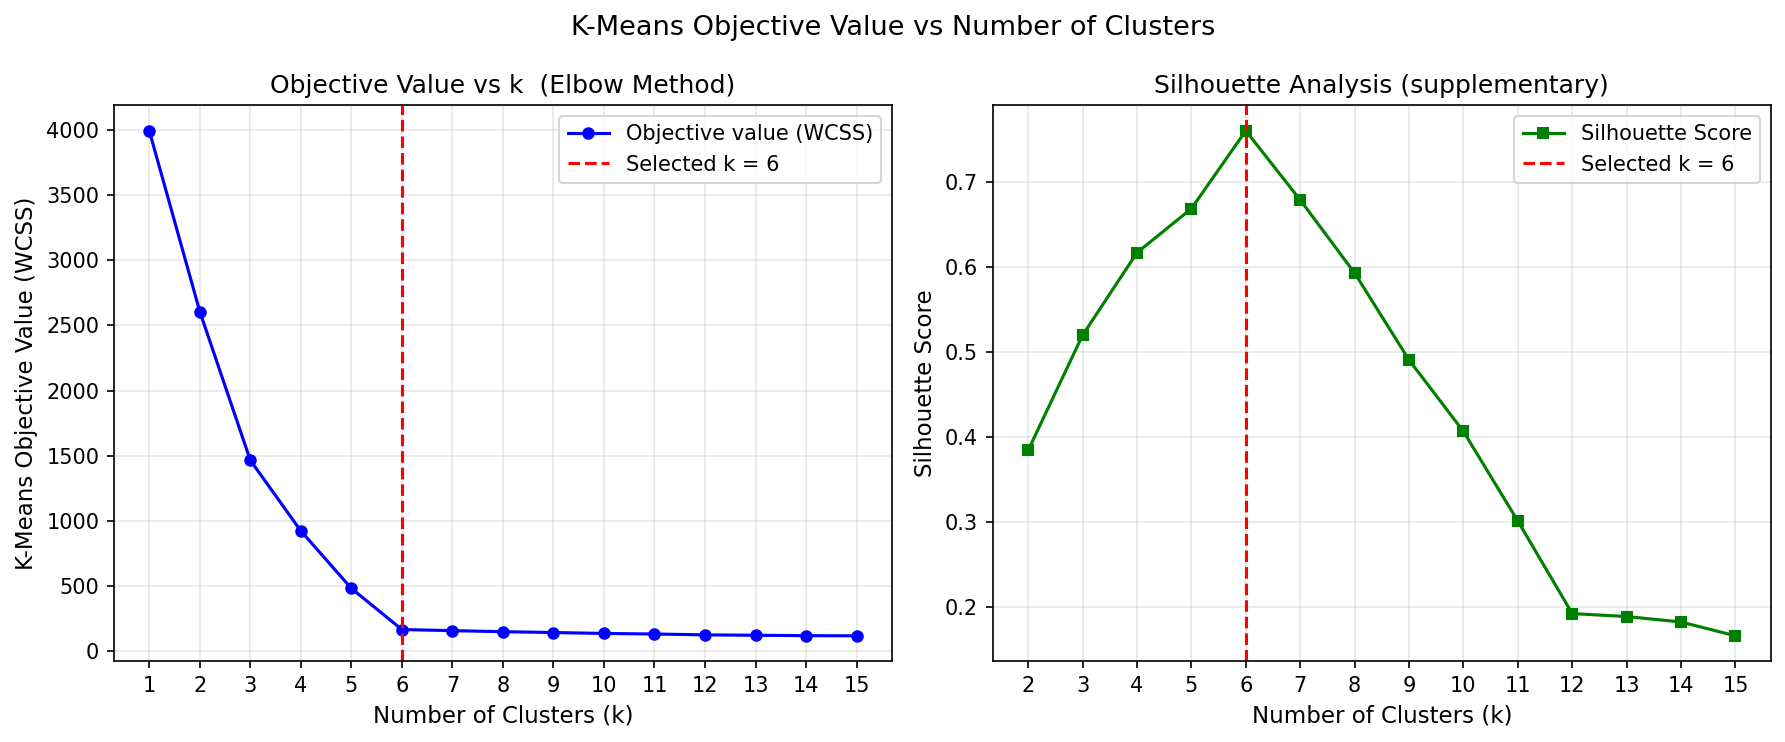
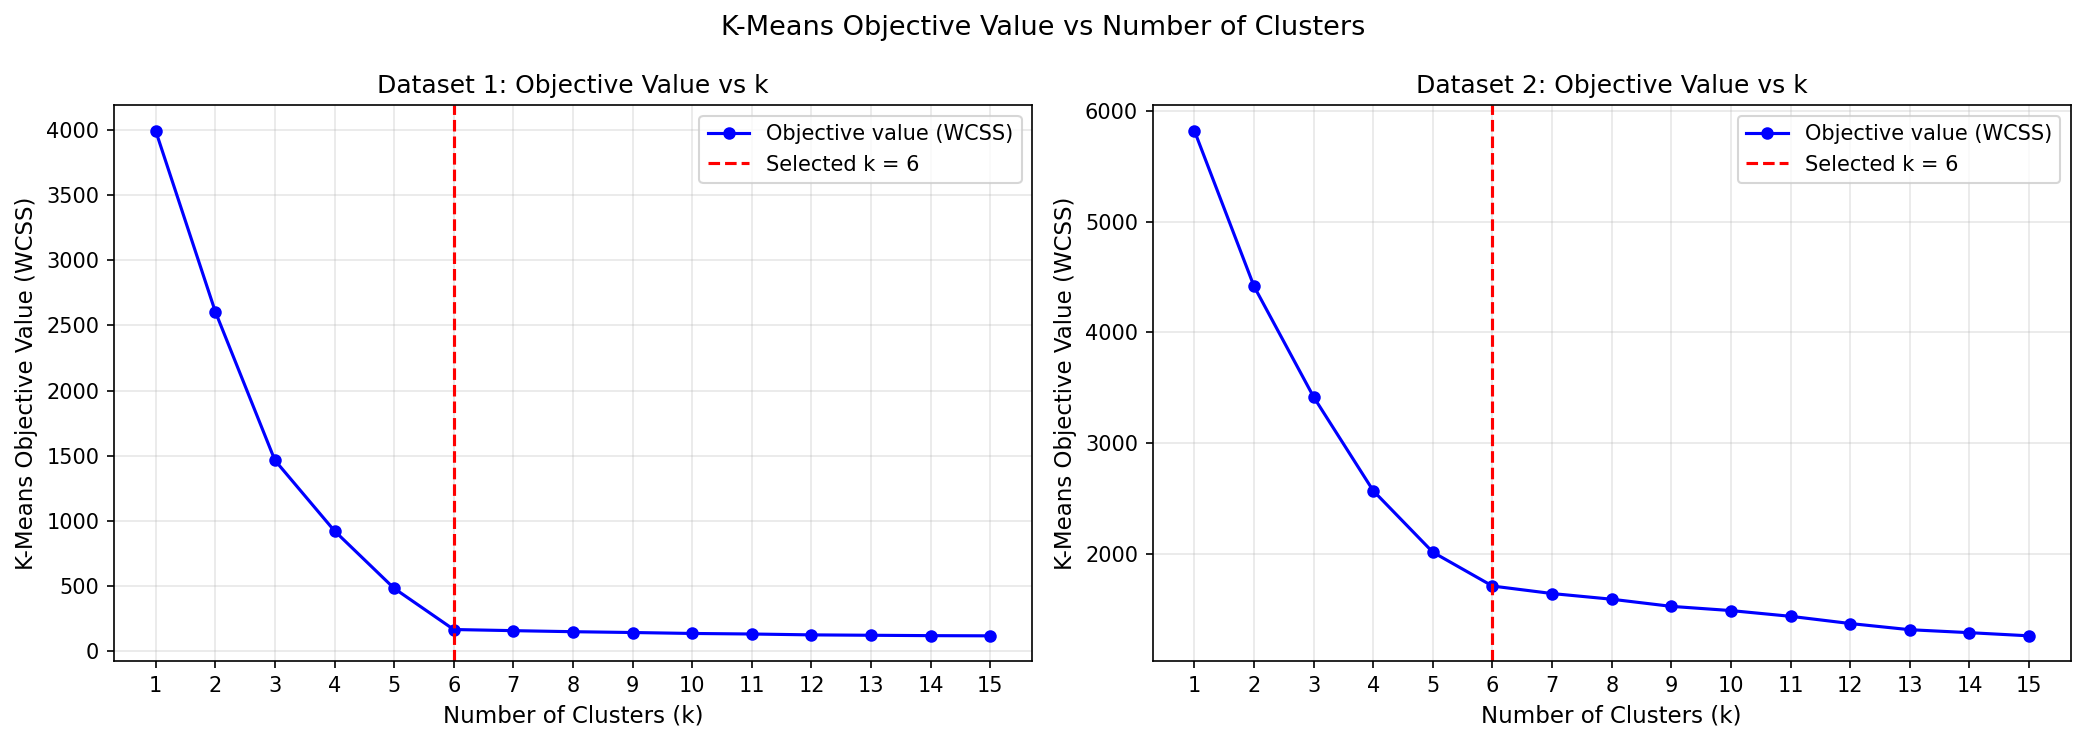
Update Q1

diff --git a/A2/q1/Q1.py b/A2/q1/Q1.py
@@ -7,8 +7,8 @@ Usage:
     python3 Q1.py <path_to_dataset>.npy  # loads from .npy file
 
 Outputs:
-    - plot.png  : metrics plot with optimal k marked
-    - stdout    : single integer, the optimal k
+    - plot.png  : objective-value plot(s) with optimal k marked
+    - stdout    : one optimal k for .npy input, or one line per API dataset
 """
 
 import sys
@@ -104,38 +104,37 @@ def find_optimal_k(ks, inertias, silhouettes):
     return elbow_k
 
 
-def make_plot(ks, inertias, silhouettes, optimal_k, output_path="plot.png"):
-    fig, (ax1, ax2) = plt.subplots(1, 2, figsize=(12, 5))
+def make_plot(results, output_path="plot.png"):
+    """
+    results: list of tuples (dataset_label, ks, inertias, optimal_k)
+    """
+    n = len(results)
+    fig, axes = plt.subplots(1, n, figsize=(7 * n, 5), squeeze=False)
+    axes = axes[0]
     fig.suptitle("K-Means Objective Value vs Number of Clusters", fontsize=13)
 
-    # --- Primary: Inertia (WCSS) / Elbow plot ---
-    # This is the plot explicitly required by the assignment.
-    ax1.plot(ks, inertias, "b-o", markersize=5, linewidth=1.5, label="Objective value (WCSS)")
-    ax1.axvline(x=optimal_k, color="red", linestyle="--", linewidth=1.5,
-                label=f"Selected k = {optimal_k}")
-    ax1.set_xlabel("Number of Clusters (k)", fontsize=11)
-    ax1.set_ylabel("K-Means Objective Value (WCSS)", fontsize=11)
-    ax1.set_title("Objective Value vs k  (Elbow Method)", fontsize=12)
-    ax1.set_xticks(ks)
-    ax1.legend()
-    ax1.grid(True, alpha=0.3)
-
-    # --- Supplementary: Silhouette score (undefined for k=1, skip that point) ---
-    valid_ks  = [k for k, s in zip(ks, silhouettes) if not np.isnan(s)]
-    valid_sil = [s for s in silhouettes if not np.isnan(s)]
-    ax2.plot(valid_ks, valid_sil, "g-s", markersize=5, linewidth=1.5, label="Silhouette Score")
-    ax2.axvline(x=optimal_k, color="red", linestyle="--", linewidth=1.5,
-                label=f"Selected k = {optimal_k}")
-    ax2.set_xlabel("Number of Clusters (k)", fontsize=11)
-    ax2.set_ylabel("Silhouette Score", fontsize=11)
-    ax2.set_title("Silhouette Analysis (supplementary)", fontsize=12)
-    ax2.set_xticks(valid_ks)
-    ax2.legend()
-    ax2.grid(True, alpha=0.3)
+    for ax, (dataset_label, ks, inertias, optimal_k) in zip(axes, results):
+        ax.plot(ks, inertias, "b-o", markersize=5, linewidth=1.5, label="Objective value (WCSS)")
+        ax.axvline(x=optimal_k, color="red", linestyle="--", linewidth=1.5,
+                   label=f"Selected k = {optimal_k}")
+        ax.set_xlabel("Number of Clusters (k)", fontsize=11)
+        ax.set_ylabel("K-Means Objective Value (WCSS)", fontsize=11)
+        ax.set_title(f"Dataset {dataset_label}: Objective Value vs k", fontsize=12)
+        ax.set_xticks(ks)
+        ax.legend()
+        ax.grid(True, alpha=0.3)
 
     plt.tight_layout()
     plt.savefig(output_path, dpi=150, bbox_inches="tight")
     plt.close()
+
+
+def analyze_dataset(X: np.ndarray):
+    scaler = StandardScaler()
+    X_scaled = scaler.fit_transform(X)
+    ks, inertias, silhouettes = compute_metrics(X_scaled)
+    optimal_k = find_optimal_k(ks, inertias, silhouettes)
+    return ks, inertias, optimal_k
 
 
 def main():
@@ -145,30 +144,34 @@ def main():
 
     arg = sys.argv[1]
 
-    # Determine input mode
+    # API mode: keep the same input method (dataset_num), but evaluate and plot
+    # both assignment datasets in one file.
+    if arg in ("1", "2"):
+        dataset_ids = [1, 2]
+        results = []
+        for dataset_id in dataset_ids:
+            X = load_from_api(dataset_id)
+            ks, inertias, optimal_k = analyze_dataset(X)
+            results.append((dataset_id, ks, inertias, optimal_k))
+
+        make_plot(results, output_path="plot.png")
+
+        for dataset_id, _, _, optimal_k in results:
+            print(f"dataset_{dataset_id} {optimal_k}")
+        return
+
+    # Single-dataset mode (kept for compatibility)
     if arg.endswith(".npy"):
         X = load_from_npy(arg)
-    elif arg in ("1", "2"):
-        X = load_from_api(int(arg))
-    else:
-        # Try as .npy path anyway
-        X = load_from_npy(arg)
+        ks, inertias, optimal_k = analyze_dataset(X)
+        make_plot([("Custom", ks, inertias, optimal_k)], output_path="plot.png")
+        print(optimal_k)
+        return
 
-    # Standardise features — essential before k-means, especially in high
-    # dimensions where feature scales can dominate distance computations.
-    scaler = StandardScaler()
-    X_scaled = scaler.fit_transform(X)
-
-    # Compute clustering metrics
-    ks, inertias, silhouettes = compute_metrics(X_scaled)
-
-    # Determine optimal k
-    optimal_k = find_optimal_k(ks, inertias, silhouettes)
-
-    # Generate plot
-    make_plot(ks, inertias, silhouettes, optimal_k, output_path="plot.png")
-
-    # Output optimal k to stdout
+    # Try as .npy path anyway
+    X = load_from_npy(arg)
+    ks, inertias, optimal_k = analyze_dataset(X)
+    make_plot([("Custom", ks, inertias, optimal_k)], output_path="plot.png")
     print(optimal_k)
 
 
